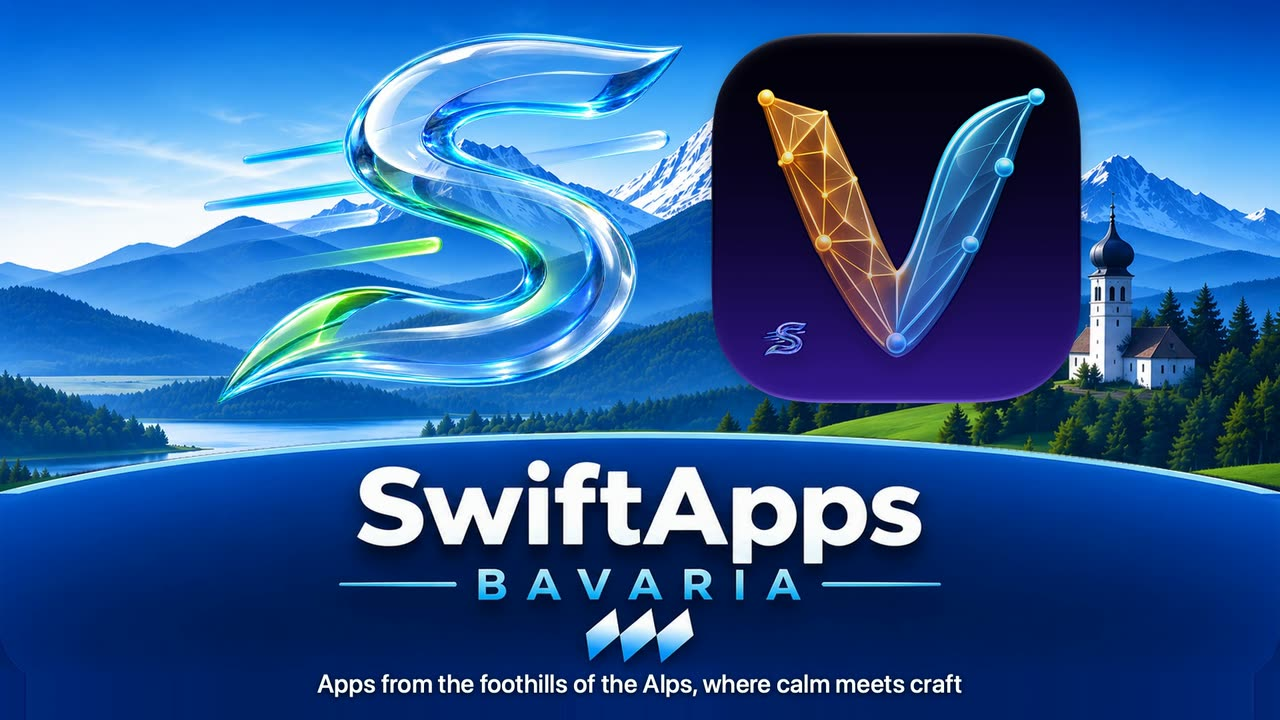
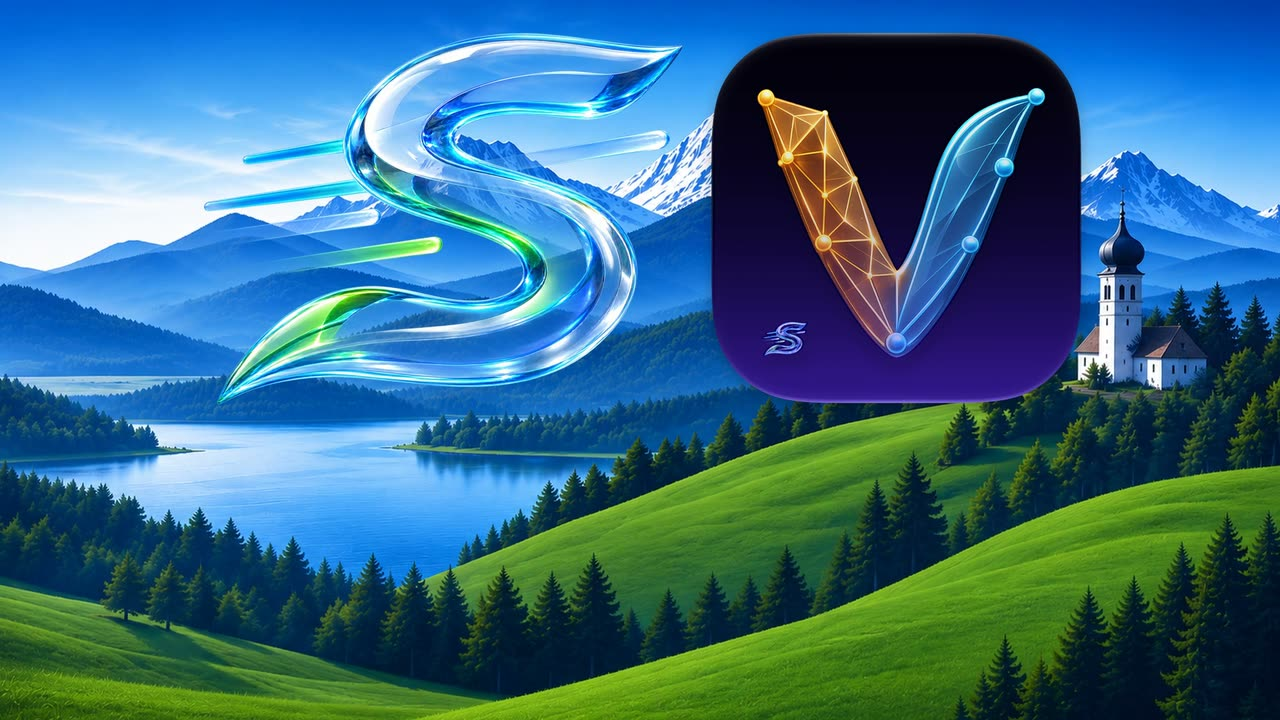
sVectorLift: Short-Karte in allen Sprachen; einzelne Short-Karte ein Drittel breit; Filmbild ohne Spruch
Nur die Karten übernommen, der Store-Text bleibt 1.04. Filmbild aus dem Vorspann bei 5,8 s (vorher stand der
Spruch unter dem Kartentext).

diff --git a/mac/ru/svectorlift/index.html b/mac/ru/svectorlift/index.html
@@ -38,6 +38,7 @@
   </div>
   <p class="promo">Тысячи клипартов на старых дисках CorelDRAW заперты в форматах, которые никто уже не открывает. sVectorLift превращает их в графику для сегодняшней работы.</p>
   
+  <div class="filme"><a class="film kurz" href="https://youtu.be/TaNTt4XmeaI" target="_blank" rel="noopener"><img src="../../../assets/film/svectorlift-short.jpg" width="1280" height="720" alt="" loading="lazy"><span>Коротко – чуть больше минуты на YouTube, на английском с русскими субтитрами</span></a></div>
   <div class="shots"><figure><img src="../../../assets/shots/ru/svectorlift-raster.jpg" width="1440" height="900" alt="sVectorLift — Винтажный клипарт снова в деле" loading="lazy"></figure><figure><img src="../../../assets/shots/ru/svectorlift-detail.jpg" width="1440" height="900" alt="sVectorLift — Винтажный клипарт снова в деле" loading="lazy"></figure></div>
   <div class="beschreibung">
 <p>Где-то на полке лежит диск с клипартом, купленный много лет назад. Файлы на месте — но ни одна программа на вашем Mac их не открывает.</p>

diff --git a/mac/ja/svectorlift/index.html b/mac/ja/svectorlift/index.html
@@ -38,6 +38,7 @@
   </div>
   <p class="promo">古いCorelDRAWのCDに眠る何千枚ものクリップアート。もう開けない形式に閉じ込められたままです。sVectorLiftは、それらを今日そのまま使えるアートワークとしてよみがえらせます。</p>
   
+  <div class="filme"><a class="film kurz" href="https://youtu.be/TaNTt4XmeaI" target="_blank" rel="noopener"><img src="../../../assets/film/svectorlift-short.jpg" width="1280" height="720" alt="" loading="lazy"><span>ひと目でわかる – YouTube で約1分（英語・日本語字幕付き）</span></a></div>
   <div class="shots"><figure><img src="../../../assets/shots/ja/svectorlift-raster.jpg" width="1440" height="900" alt="sVectorLift — ヴィンテージのクリップアートに、新たな命を" loading="lazy"></figure><figure><img src="../../../assets/shots/ja/svectorlift-detail.jpg" width="1440" height="900" alt="sVectorLift — ヴィンテージのクリップアートに、新たな命を" loading="lazy"></figure></div>
   <div class="beschreibung">
 <p>棚のどこかに、何年も前に買ったクリップアート集のCDが眠っていませんか。ファイルはちゃんと残っているのに、いまのMacでは何を使っても開けません。</p>

diff --git a/assets/style.css b/assets/style.css
@@ -212,6 +212,7 @@ a.film span {
 .filme { display: flex; gap: 20px; align-items: flex-start; margin: 0 0 32px; }
 .filme a.film { flex: 2 1 0; min-width: 0; margin: 0; }
 .filme a.film.kurz { flex: 1 1 0; }
+.filme a.film.kurz:only-child { flex: none; width: calc((100% - 20px) / 3); min-width: 260px; }   /* Short ohne Werbefilm: so groß wie daneben */
 /* Short: kleines Bild, der Text steht darunter (über dem Bild verdeckte er es in den langen Sprachen) */
 a.film.kurz { overflow: visible; border-radius: 0; box-shadow: none; color: var(--text); }
 a.film.kurz img { border-radius: 14px; box-shadow: var(--shadow); }
@@ -220,4 +221,4 @@ a.film.kurz::after { top: 0; margin: 0; width: 100%; aspect-ratio: 16 / 9; heigh
     center / 52px no-repeat; left: 0; }
 a.film.kurz:hover::after { background-color: rgba(0,0,0,.12); }
 a.film.kurz span { position: static; display: block; padding: 10px 2px 0; font-size: 15px; background: none; }
-@media (max-width: 600px) { .filme { flex-direction: column; } .filme a.film, .filme a.film.kurz { flex: none; width: 100%; } }
+@media (max-width: 600px) { .filme { flex-direction: column; } .filme a.film, .filme a.film.kurz, .filme a.film.kurz:only-child { flex: none; width: 100%; } }

diff --git a/mac/ko/svectorlift/index.html b/mac/ko/svectorlift/index.html
@@ -38,6 +38,7 @@
   </div>
   <p class="promo">예전 CorelDRAW CD에 담긴 수천 개의 클립아트가 이제는 아무도 열지 못하는 파일 형식에 갇혀 있습니다. sVectorLift는 그것을 지금 쓸 수 있는 그래픽으로 되살립니다.</p>
   
+  <div class="filme"><a class="film kurz" href="https://youtu.be/TaNTt4XmeaI" target="_blank" rel="noopener"><img src="../../../assets/film/svectorlift-short.jpg" width="1280" height="720" alt="" loading="lazy"><span>한눈에 보기 – YouTube에서 약 1분 (영어, 한국어 자막)</span></a></div>
   <div class="shots"><figure><img src="../../../assets/shots/ko/svectorlift-raster.jpg" width="1440" height="900" alt="sVectorLift — 빈티지 클립아트를 다시 쓰다" loading="lazy"></figure><figure><img src="../../../assets/shots/ko/svectorlift-detail.jpg" width="1440" height="900" alt="sVectorLift — 빈티지 클립아트를 다시 쓰다" loading="lazy"></figure></div>
   <div class="beschreibung">
 <p>책장 어딘가에 몇 년 전 구입한 클립아트 CD가 놓여 있습니다. 파일은 그대로 남아 있지만, Mac의 어떤 프로그램도 그것을 열지 못합니다.</p>

diff --git a/mac/fr/svectorlift/index.html b/mac/fr/svectorlift/index.html
@@ -38,6 +38,7 @@
   </div>
   <p class="promo">Des milliers de cliparts sur ces vieux CD CorelDRAW, prisonniers de formats morts. sVectorLift les transforme en images vectorielles vraiment utilisables aujourd&#x27;hui.</p>
   
+  <div class="filme"><a class="film kurz" href="https://youtu.be/TaNTt4XmeaI" target="_blank" rel="noopener"><img src="../../../assets/film/svectorlift-short.jpg" width="1280" height="720" alt="" loading="lazy"><span>En bref – un peu plus d’une minute sur YouTube, en anglais avec sous-titres en français</span></a></div>
   <div class="shots"><figure><img src="../../../assets/shots/fr/svectorlift-raster.jpg" width="1440" height="900" alt="sVectorLift — Cliparts vintage, ressuscités" loading="lazy"></figure><figure><img src="../../../assets/shots/fr/svectorlift-detail.jpg" width="1440" height="900" alt="sVectorLift — Cliparts vintage, ressuscités" loading="lazy"></figure></div>
   <div class="beschreibung">
 <p>Quelque part sur une étagère dort un CD de cliparts que vous avez payé il y a des années. Les fichiers sont toujours là — mais plus rien sur votre Mac ne veut les ouvrir.</p>

diff --git a/mac/pt-br/svectorlift/index.html b/mac/pt-br/svectorlift/index.html
@@ -38,6 +38,7 @@
   </div>
   <p class="promo">Milhares de cliparts em CDs antigos do CorelDRAW, presos em formatos que ninguém mais abre. O sVectorLift os transforma em imagens com as quais você pode trabalhar hoje.</p>
   
+  <div class="filme"><a class="film kurz" href="https://youtu.be/TaNTt4XmeaI" target="_blank" rel="noopener"><img src="../../../assets/film/svectorlift-short.jpg" width="1280" height="720" alt="" loading="lazy"><span>Visão rápida – pouco mais de um minuto no YouTube, em inglês com legendas em português</span></a></div>
   <div class="shots"><figure><img src="../../../assets/shots/pt-br/svectorlift-raster.jpg" width="1440" height="900" alt="sVectorLift — Clipart vintage, de novo útil" loading="lazy"></figure><figure><img src="../../../assets/shots/pt-br/svectorlift-detail.jpg" width="1440" height="900" alt="sVectorLift — Clipart vintage, de novo útil" loading="lazy"></figure></div>
   <div class="beschreibung">
 <p>Em algum lugar da estante há um CD cheio de cliparts que você comprou um dia. Os arquivos continuam lá — mas nenhum programa do seu Mac consegue abri-los.</p>

diff --git a/mac/pt-pt/svectorlift/index.html b/mac/pt-pt/svectorlift/index.html
@@ -38,6 +38,7 @@
   </div>
   <p class="promo">Milhares de cliparts em velhos CDs do CorelDRAW, presos em formatos que já ninguém abre. O sVectorLift transforma-os em imagens com que pode trabalhar hoje.</p>
   
+  <div class="filme"><a class="film kurz" href="https://youtu.be/TaNTt4XmeaI" target="_blank" rel="noopener"><img src="../../../assets/film/svectorlift-short.jpg" width="1280" height="720" alt="" loading="lazy"><span>Visão rápida – pouco mais de um minuto no YouTube, em inglês com legendas em português</span></a></div>
   <div class="shots"><figure><img src="../../../assets/shots/pt-pt/svectorlift-raster.jpg" width="1440" height="900" alt="sVectorLift — Clipart vintage, de novo útil" loading="lazy"></figure><figure><img src="../../../assets/shots/pt-pt/svectorlift-detail.jpg" width="1440" height="900" alt="sVectorLift — Clipart vintage, de novo útil" loading="lazy"></figure></div>
   <div class="beschreibung">
 <p>Algures numa prateleira está um CD cheio de cliparts que comprou em tempos. Os ficheiros continuam lá — mas nenhum programa do seu Mac os consegue abrir.</p>

diff --git a/mac/zh-hant/svectorlift/index.html b/mac/zh-hant/svectorlift/index.html
@@ -38,6 +38,7 @@
   </div>
   <p class="promo">那些舊 CorelDRAW 光碟上的成千上萬張美工圖案，被鎖在再也沒人打得開的檔案格式裡。sVectorLift 把它們變成今天就能用的圖形。</p>
   
+  <div class="filme"><a class="film kurz" href="https://youtu.be/TaNTt4XmeaI" target="_blank" rel="noopener"><img src="../../../assets/film/svectorlift-short.jpg" width="1280" height="720" alt="" loading="lazy"><span>快速一覽 – YouTube 上約 1 分鐘（英語，中文字幕）</span></a></div>
   <div class="shots"><figure><img src="../../../assets/shots/zh-hant/svectorlift-raster.jpg" width="1440" height="900" alt="sVectorLift — 讓復古美工圖案重新派上用場" loading="lazy"></figure><figure><img src="../../../assets/shots/zh-hant/svectorlift-detail.jpg" width="1440" height="900" alt="sVectorLift — 讓復古美工圖案重新派上用場" loading="lazy"></figure></div>
   <div class="beschreibung">
 <p>書架上的某個角落，放著一張多年前買下的美工圖案光碟。檔案都還在，可是 Mac 上沒有一個程式打得開。</p>

diff --git a/mac/es/svectorlift/index.html b/mac/es/svectorlift/index.html
@@ -38,6 +38,7 @@
   </div>
   <p class="promo">Miles de imágenes de clipart en aquellos CD de CorelDRAW, atrapadas en formatos muertos. sVectorLift las convierte en ilustraciones que hoy puedes usar de verdad.</p>
   
+  <div class="filme"><a class="film kurz" href="https://youtu.be/TaNTt4XmeaI" target="_blank" rel="noopener"><img src="../../../assets/film/svectorlift-short.jpg" width="1280" height="720" alt="" loading="lazy"><span>Vistazo rápido – poco más de un minuto en YouTube, en inglés con subtítulos en español</span></a></div>
   <div class="shots"><figure><img src="../../../assets/shots/es/svectorlift-raster.jpg" width="1440" height="900" alt="sVectorLift — Clipart vintage, renovado" loading="lazy"></figure><figure><img src="../../../assets/shots/es/svectorlift-detail.jpg" width="1440" height="900" alt="sVectorLift — Clipart vintage, renovado" loading="lazy"></figure></div>
   <div class="beschreibung">
 <p>En alguna estantería duerme un CD lleno de clipart que compraste hace años. Los archivos siguen ahí, intactos. Pero no hay nada en tu Mac que los abra.</p>

diff --git a/mac/it/svectorlift/index.html b/mac/it/svectorlift/index.html
@@ -38,6 +38,7 @@
   </div>
   <p class="promo">Migliaia di clipart su quei vecchi CD di CorelDRAW, chiuse in formati che nessuno apre più. sVectorLift le trasforma in grafica con cui puoi lavorare oggi.</p>
   
+  <div class="filme"><a class="film kurz" href="https://youtu.be/TaNTt4XmeaI" target="_blank" rel="noopener"><img src="../../../assets/film/svectorlift-short.jpg" width="1280" height="720" alt="" loading="lazy"><span>In breve – poco più di un minuto su YouTube, in inglese con sottotitoli in italiano</span></a></div>
   <div class="shots"><figure><img src="../../../assets/shots/it/svectorlift-raster.jpg" width="1440" height="900" alt="sVectorLift — Clipart vintage, di nuovo vive" loading="lazy"></figure><figure><img src="../../../assets/shots/it/svectorlift-detail.jpg" width="1440" height="900" alt="sVectorLift — Clipart vintage, di nuovo vive" loading="lazy"></figure></div>
   <div class="beschreibung">
 <p>Da qualche parte sullo scaffale c&#x27;è un CD pieno di clipart che hai comprato anni fa. I file ci sono ancora, ma nessun programma sul tuo Mac li apre.</p>

diff --git a/mac/zh-hans/svectorlift/index.html b/mac/zh-hans/svectorlift/index.html
@@ -38,6 +38,7 @@
   </div>
   <p class="promo">那些旧 CorelDRAW 光盘上的成千上万张剪贴画，被锁在再也没人打开的文件格式里。sVectorLift 把它们变成今天就能用的图形。</p>
   
+  <div class="filme"><a class="film kurz" href="https://youtu.be/TaNTt4XmeaI" target="_blank" rel="noopener"><img src="../../../assets/film/svectorlift-short.jpg" width="1280" height="720" alt="" loading="lazy"><span>快速一览 – YouTube 上约 1 分钟（英语，中文字幕）</span></a></div>
   <div class="shots"><figure><img src="../../../assets/shots/zh-hans/svectorlift-raster.jpg" width="1440" height="900" alt="sVectorLift — 让复古剪贴画重新派上用场" loading="lazy"></figure><figure><img src="../../../assets/shots/zh-hans/svectorlift-detail.jpg" width="1440" height="900" alt="sVectorLift — 让复古剪贴画重新派上用场" loading="lazy"></figure></div>
   <div class="beschreibung">
 <p>书架上的某个角落，放着一张多年前买下的剪贴画光盘。文件都还在，可 Mac 上没有一个程序打得开。</p>

diff --git a/mac/svectorlift/index.html b/mac/svectorlift/index.html
@@ -38,6 +38,7 @@
   </div>
   <p class="promo">Thousands of clipart images on those old CorelDRAW CDs — locked in dead file formats. sVectorLift turns them back into artwork you can actually use today.</p>
   
+  <div class="filme"><a class="film kurz" href="https://youtu.be/TaNTt4XmeaI" target="_blank" rel="noopener"><img src="../../assets/film/svectorlift-short.jpg" width="1280" height="720" alt="" loading="lazy"><span>The quick tour – just over a minute on YouTube</span></a></div>
   <div class="shots"><figure><img src="../../assets/shots/en/svectorlift-raster.jpg" width="1440" height="900" alt="sVectorLift — Vintage clipart, back to life" loading="lazy"></figure><figure><img src="../../assets/shots/en/svectorlift-detail.jpg" width="1440" height="900" alt="sVectorLift — Vintage clipart, back to life" loading="lazy"></figure></div>
   <div class="beschreibung">
 <p>Somewhere on a shelf sits a CD full of clipart you paid for years ago. The files are still there — but nothing on your Mac will open them.</p>
